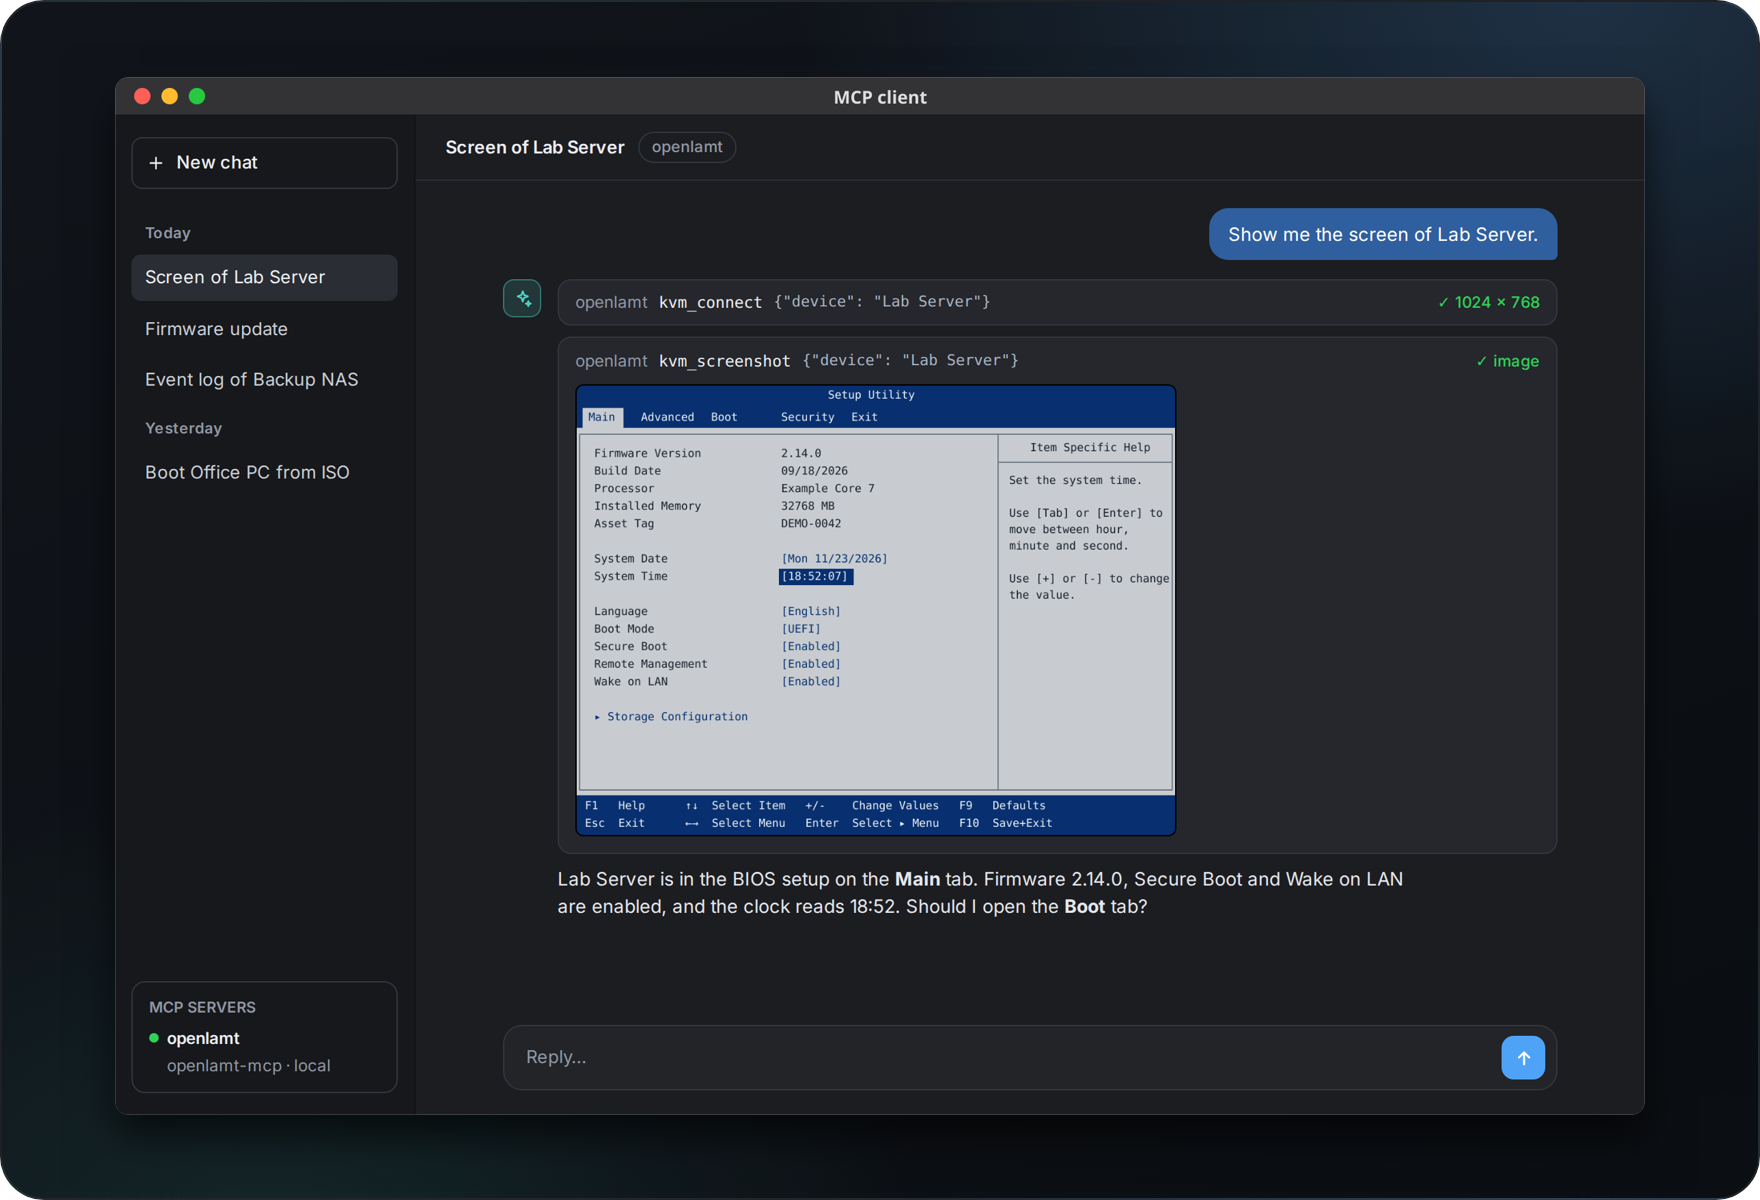
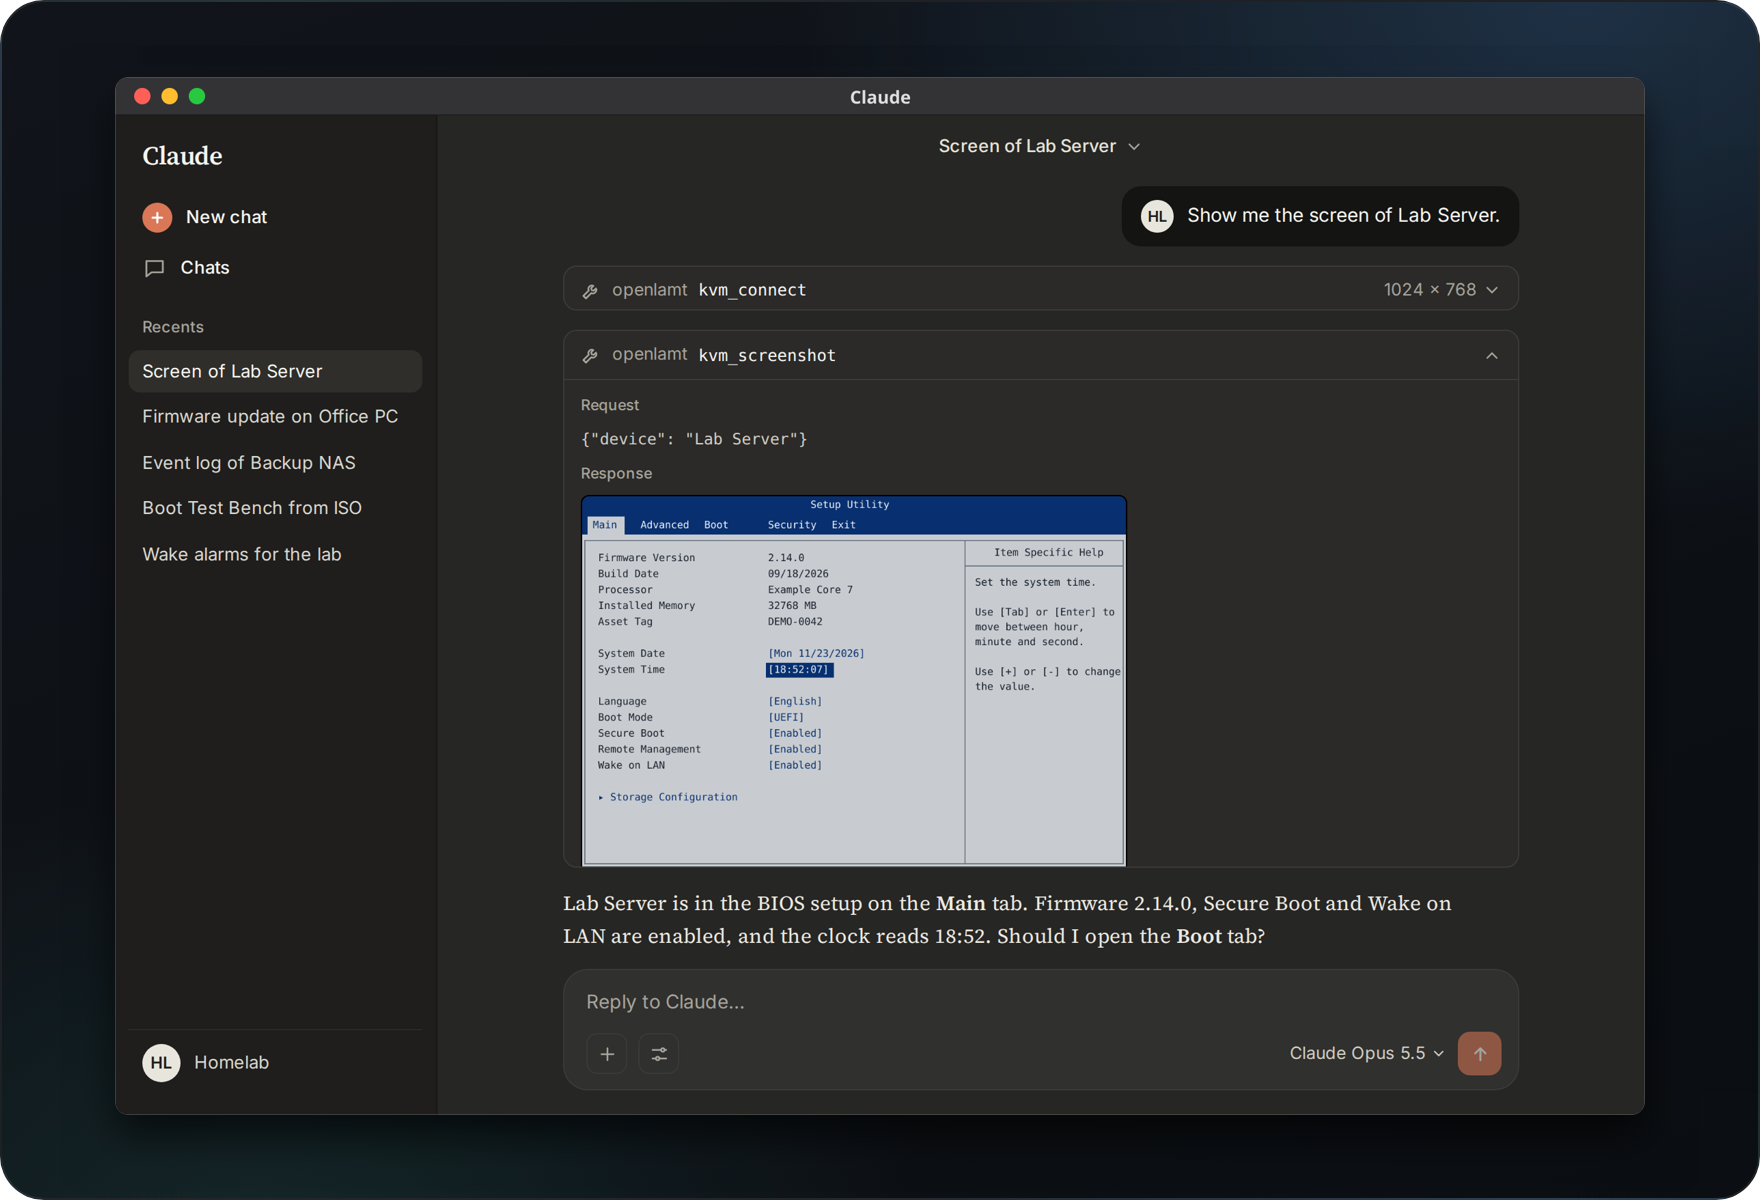
docs: show openlamt-mcp in Claude and polish the hero's MCP item

diff --git a/README.md b/README.md
@@ -58,7 +58,7 @@ Each device opens in its own window with remote keyboard, video and mouse (KVM).
 
 ### Let an AI agent run your devices
 
-![An MCP client asks openlamt-mcp for the screen of Lab Server and gets the BIOS setup back](screenshots/mcp.png)
+![Claude asks openlamt-mcp for the screen of Lab Server and shows the BIOS setup](screenshots/mcp.png)
 
 `openlamt-mcp` connects your OpenLAMT favorites to an AI agent, such as Claude Desktop, Claude Code or any other MCP client. The agent can read status and logs, switch devices on and off, look at the screen and type, use the serial console and boot from an ISO. It runs on your computer and opens no network port.
 
